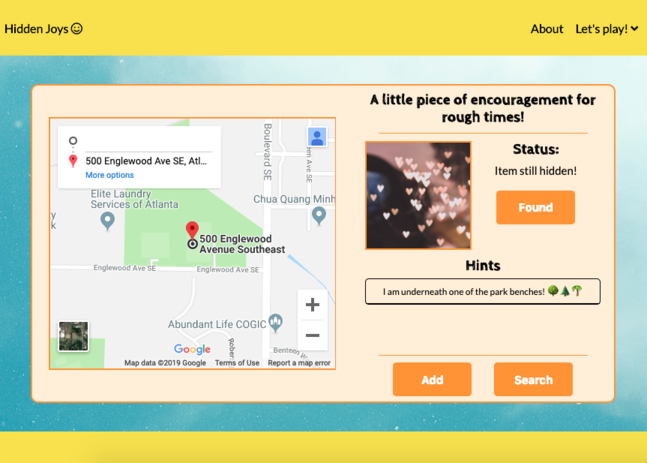
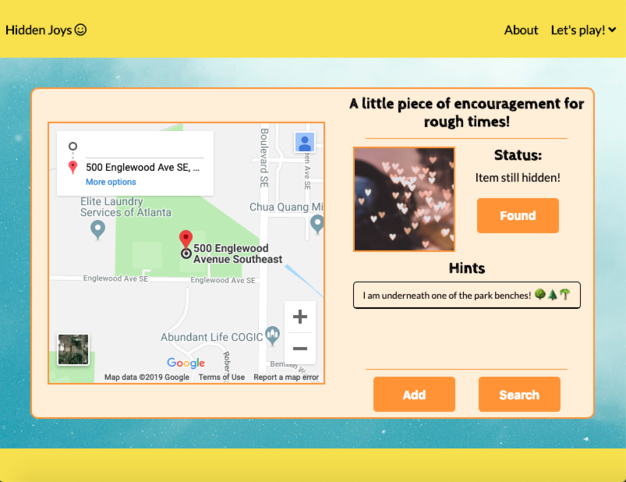
Add screenshot for item details screen

diff --git a/README.md b/README.md
@@ -39,10 +39,10 @@ We believe in creating joy for others by lifting them up, putting a smile on the
 
 * **Input location**
 
+  The user can either use their current location or search for an address using the Google Places Library.
+
   * Current location
   
-    The user can either use their current location or search for an address using the Google Places Library.
-
     <!-- ![Use Current Location dropdown option](/frontend/public/assets/use-current-location-mobile.png) -->
 
     ![Use Current Location dropdown option](/frontend/public/assets/use-current-location-desktop.png)
@@ -105,7 +105,7 @@ Another key feature of this application is the ability for users to search for h
 
 ### USERS CAN VIEW ITEM DETAILS
 
-<!-- ![Item details screen](/frontend/public/assets/item-details-screen-desktop.jpg) -->
+![Item details screen](/frontend/public/assets/item-details-screen-desktop.jpg)
 
 * **Item Details Page**
   
@@ -131,8 +131,6 @@ Another key feature of this application is the ability for users to search for h
   
     Also, when you click on 'More Options,' Google Directions opens in a new tab pointing the user to the items location.
 
-    ![Item details screen](/frontend/public/assets/item-details-screen-mobile.jpg)
-
 ### USERS CAN MARK ITEMS AS FOUND
 
 * **Found Items Form**
@@ -155,7 +153,7 @@ Another key feature of this application is the ability for users to search for h
   
     When someone enters a correct id for a hidden item, they will be directed to a form confirming that the item has been marked as found. The user can then add an optional comment about their experience.
 
-  ![Found successful screen](/frontend/public/assets/found-successful-screen-mobile.jpg)
+    ![Found successful screen](/frontend/public/assets/found-successful-screen-mobile.jpg)
 
 ## Video Demo
 
